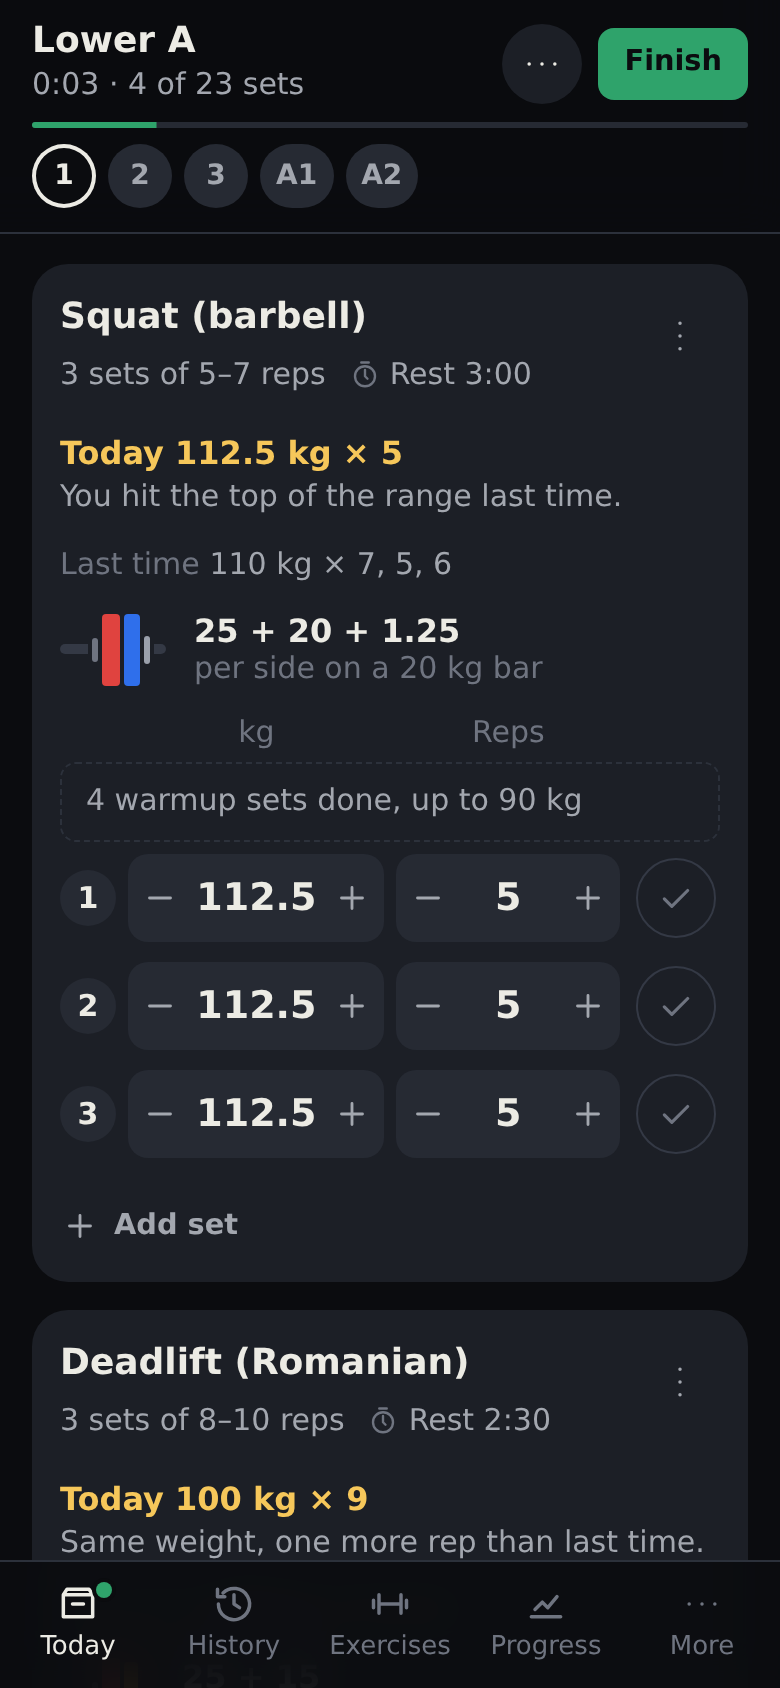
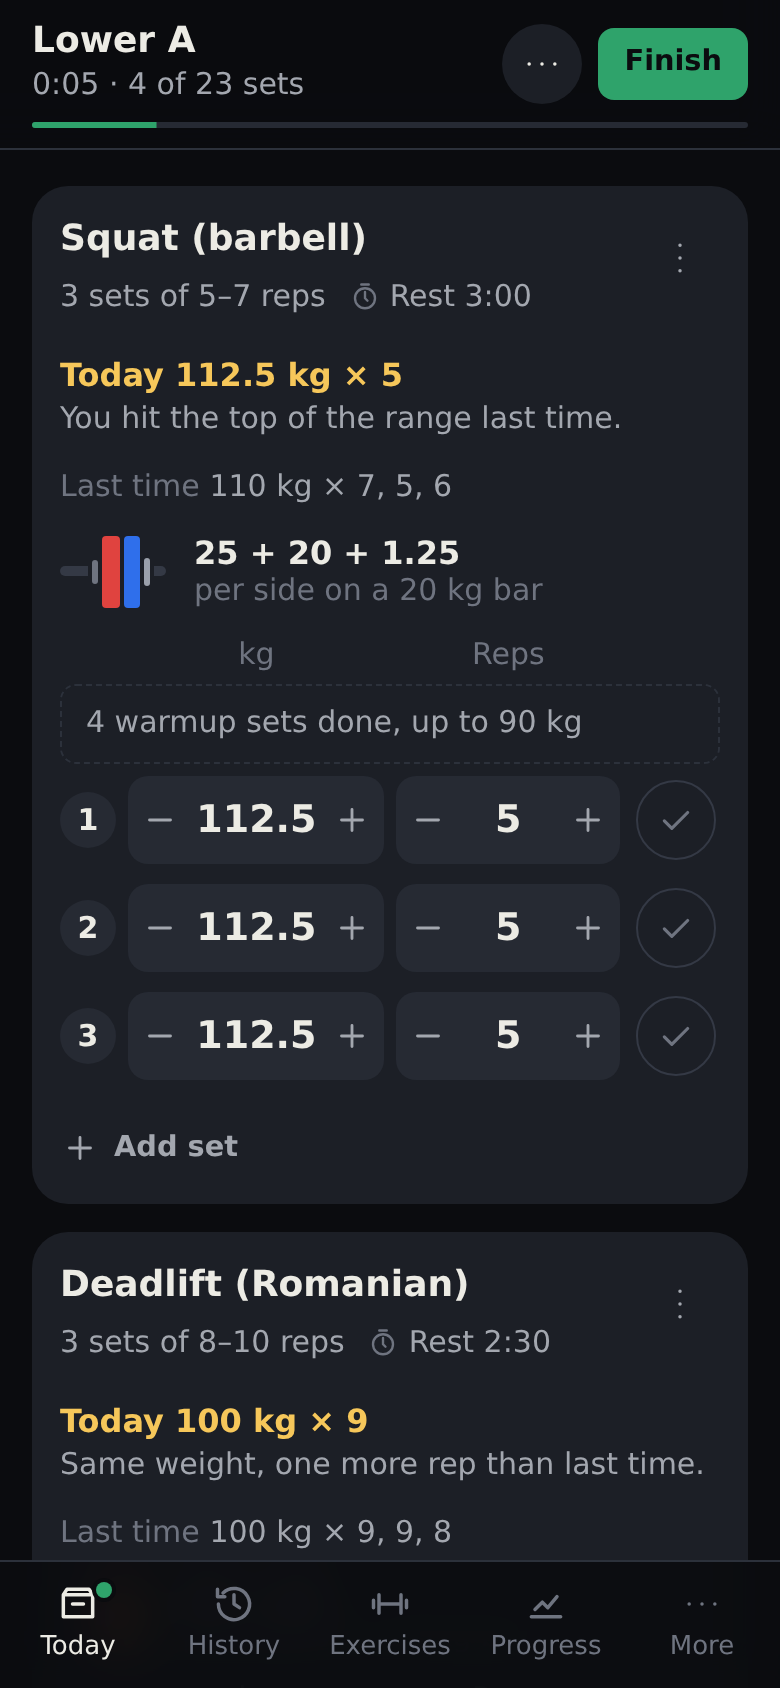
Workout: remove the exercise chips from the header
The workout already scrolls to the next set after an exercise or a rest, and the
progress bar shows how far along it is, so the chip row only took up sticky space.

diff --git a/src/routes/Workout.svelte b/src/routes/Workout.svelte
@@ -29,30 +29,6 @@
   const unlogged = $derived(s ? unloggedSets(s) : []);
   const currentGym = $derived(gym(app.gymId));
 
-  /** One chip per exercise: superset items are A1, A2…; the current one is the first with a set to do. */
-  const chips = $derived.by(() => {
-    if (!s) return [];
-    const list = s.blocks.flatMap((b, bi) =>
-      b.items.map((item, ii) => ({
-        bi, ii,
-        label: b.items.length > 1 ? `${letters[bi]}${ii + 1}` : '',
-        name: exercise(item.exerciseId)?.name ?? 'Exercise',
-        done: item.sets.length > 0 && item.sets.every((x) => x.done),
-        current: false,
-      })),
-    );
-    let n = 0;
-    for (const c of list) if (!c.label) c.label = String(++n);
-    const cur = list.find((c) => !c.done);
-    if (cur) cur.current = true;
-    return list;
-  });
-
-  function jump(bi: number, ii: number) {
-    const reduce = matchMedia('(prefers-reduced-motion: reduce)').matches;
-    document.getElementById(`ex-${bi}-${ii}`)?.scrollIntoView({ behavior: reduce ? 'auto' : 'smooth', block: 'start' });
-  }
-
   /** Close the options sheet, then run the action (one sheet at a time). */
   function menu(fn: () => void) {
     menuOpen = false;
@@ -140,14 +116,6 @@
       <div class="progress" role="progressbar" aria-label="Sets logged" aria-valuemin={0} aria-valuemax={allSets.length} aria-valuenow={doneCount}>
         <div class="fill" style:transform="scaleX({allSets.length ? doneCount / allSets.length : 0})"></div>
       </div>
-      {#if chips.length > 1}
-        <nav class="chips scroll-x" aria-label="Exercises">
-          {#each chips as c (`${c.bi}-${c.ii}`)}
-            <button class="ex-chip num" class:done={c.done} class:current={c.current} onclick={() => jump(c.bi, c.ii)}
-              aria-label="{c.name}{c.done ? ', done' : c.current ? ', up next' : ''}. Go to exercise">{c.label}</button>
-          {/each}
-        </nav>
-      {/if}
     </header>
 
     {#if app.gymNotice}
@@ -289,13 +257,6 @@
   .elapsed { font-size: 0.9375rem; white-space: nowrap; overflow: hidden; text-overflow: ellipsis; }
   .progress { height: 3px; border-radius: 2px; background: var(--iron-2); overflow: hidden; }
   .progress .fill { height: 100%; background: var(--go); transform-origin: left; transition: transform 250ms ease-out; }
-  .chips { gap: 6px; padding-bottom: 2px; }
-  .ex-chip {
-    flex: none; min-width: 32px; height: 32px; padding: 0 8px; border: 0; border-radius: 16px;
-    background: var(--iron-2); color: var(--chalk-dim); font-size: 0.875rem; font-weight: 700;
-  }
-  .ex-chip.done { background: color-mix(in srgb, var(--go) 24%, transparent); color: var(--ink-green); }
-  .ex-chip.current { background: var(--iron-0); color: var(--chalk); box-shadow: inset 0 0 0 2px var(--chalk); }
   .opt { flex: 1; }
   .gym-name { display: inline-flex; align-items: center; gap: 8px; max-width: 50%; white-space: nowrap; overflow: hidden; text-overflow: ellipsis; }
 

diff --git a/src/lib/components/ExerciseCard.svelte b/src/lib/components/ExerciseCard.svelte
@@ -112,7 +112,7 @@
   }
 </script>
 
-<article class="card" id="ex-{blockIndex}-{itemIndex}" class:linked={inSuperset} class:timed class:folded>
+<article class="card" class:linked={inSuperset} class:timed class:folded>
   {#if folded}
     <button class="fold-row" onclick={() => (reopened = true)} aria-label="{ex.name}, done: {setsSummary(item.sets, ex)}. Show sets">
       {#if label}<span class="ss num" aria-hidden="true">{label}</span>{/if}

diff --git a/README.md b/README.md
@@ -33,9 +33,8 @@ of workouts. **More → Erase all data** starts again from scratch.
 and your other routines, each with a small body map of the muscles it trains. Start a routine, or an empty workout
 and add exercises as you go.
 
-At the top of a workout you see its name, the time so far, how many sets you've logged and a progress bar. Below
-them, a numbered button for each exercise (A1, A2 for a superset) shows which are done and which is next: tap one to
-jump to it. The **⋯** button starts a rest timer, changes the gym, adds an exercise, renames the workout or discards it.
+At the top of a workout you see its name, the time so far, how many sets you've logged and a progress bar. The
+**⋯** button starts a rest timer, changes the gym, adds an exercise, renames the workout or discards it.
 
 During a workout each exercise card shows:
 
